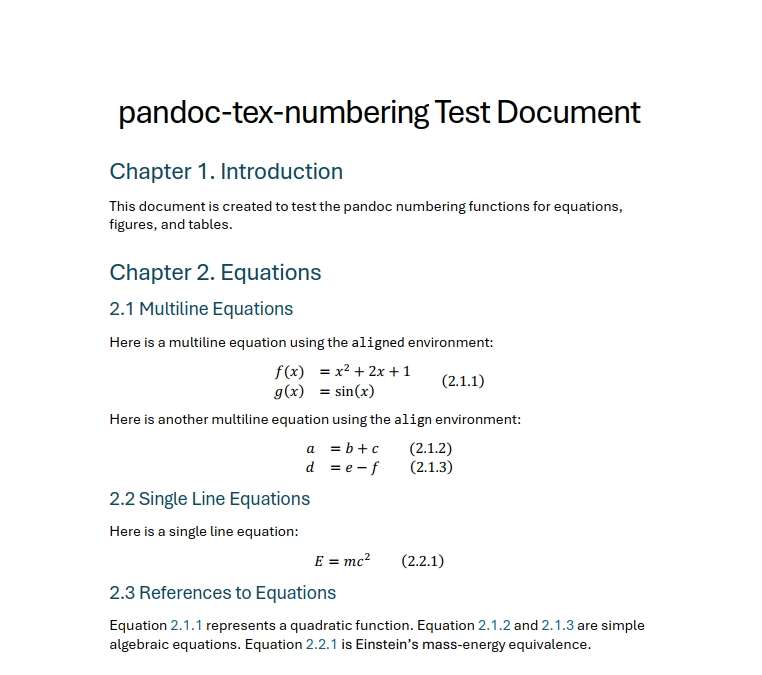
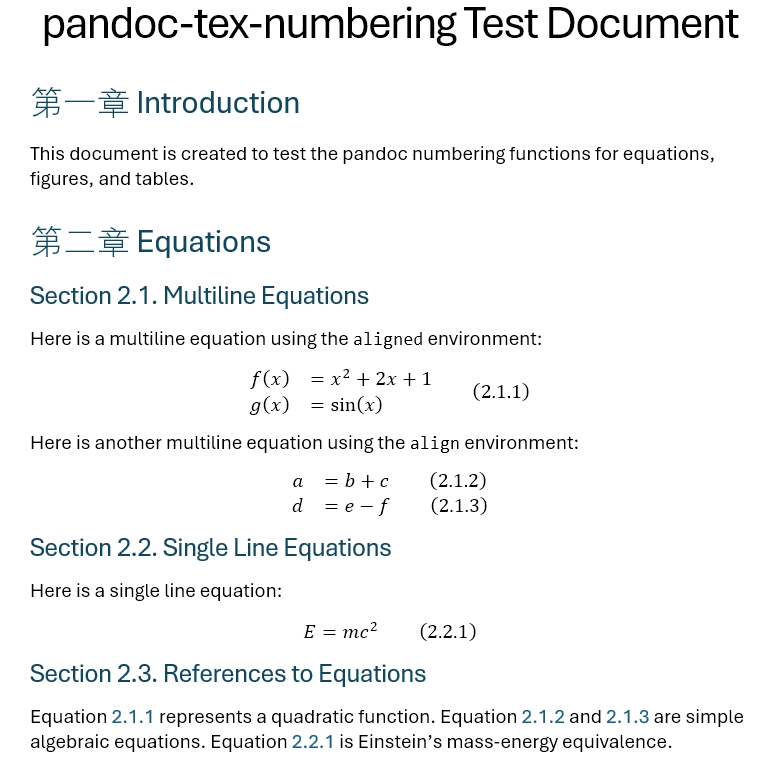
Add non-arabic numbering function

diff --git a/pandoc-tex-numbering.py b/pandoc-tex-numbering.py
@@ -13,31 +13,52 @@ logger.setLevel(logging.INFO)
 
 MAX_LEVEL = 10
 
+def number_fields(numbers,max_levels,non_arabic_numbers=False):
+    if non_arabic_numbers:
+        from lang_num import language_functions
+    fields = {}
+    for i in range(1,max_levels+1):
+        fields[f"h{i}"] = str(numbers[i-1])
+        if non_arabic_numbers:
+            for language,func in language_functions.items():
+                fields[f"h{i}_{language}"] = func(numbers[i-1])
+    return fields
+
 def prepare(doc):
     # These are global variables that will be used in the action functions, and will be destroyed after the finalization
     doc.pandoc_tex_numbering = {
+        # settings
         "num_fig": doc.get_metadata("number-figures", True),
         "num_tab": doc.get_metadata("number-tables", True),
         "num_eq": doc.get_metadata("number-equations", True),
         "num_sec": doc.get_metadata("number-sections", True),
+        "num_reset_level": int(doc.get_metadata("number-reset-level", 1)),
+
         "fig_pref": doc.get_metadata("figure-prefix", "Figure"),
         "tab_pref": doc.get_metadata("table-prefix", "Table"),
-        "num_reset_level": int(doc.get_metadata("number-reset-level", 1)),
+        "multiline_envs": doc.get_metadata("multiline-environments", "cases,align,aligned,gather,multline,flalign").split(","),
+        "non_arabic_numbers": doc.get_metadata("non-arabic-numbers", False),
+
+        # state variables
         "ref_dict": {},
         "current_sec": [0]*MAX_LEVEL,
         "current_eq": 0,
         "current_fig": 0,
         "current_tab": 0,
-        "multiline_envs": ["cases","align","aligned","gather","multline","flalign"],
         "paras2wrap": []
     }
+
+    # Initialize the section numbering formats
     section_formats = {}
     for i in range(1,MAX_LEVEL+1):
         default_format = ".".join([f"{{h{j}}}" for j in range(1,i+1)])
         current_format = doc.get_metadata(f"section-format-{i}", default_format)
-        section_formats[i] = lambda numbers,f=current_format: f.format(**{f"h{j}":str(numbers[j-1]) for j in range(1,i+1)})
+        section_formats[i] = lambda numbers,f=current_format: f.format(
+            **number_fields(numbers,i,doc.pandoc_tex_numbering["non_arabic_numbers"])
+        )
     doc.pandoc_tex_numbering["sec_num_formats"] = section_formats
     
+    # Prepare the multiline environment filter pattern for fast checking
     doc.pandoc_tex_numbering["multiline_filter_pattern"] = re.compile(
         r"\\begin\{("+"|".join(doc.pandoc_tex_numbering["multiline_envs"])+")}"
     )

diff --git a/lang_num.py b/lang_num.py
@@ -1,0 +1,24 @@
+# Here, we define the functions to convert arabic numbers to different languages
+def arabic2chinese(num):
+    chinese_numerals = "零一二三四五六七八九"
+    units = ["", "十", "百", "千", "万", "十", "百", "千", "亿"]
+    result = ""
+    num_str = str(num)
+    length = len(num_str)
+    
+    for i in range(length):
+        digit = int(num_str[i])
+        if digit != 0:
+            result += chinese_numerals[digit] + units[length - i - 1]
+        else:
+            if not result.endswith("零"):
+                result += "零"
+    if result!="零":
+        result = result.rstrip("零")
+    if result.startswith("一十"):
+        result = result[1:]
+    return result
+
+language_functions = {
+    "zh": arabic2chinese
+}

diff --git a/README.md b/README.md
@@ -37,36 +37,26 @@ You can set the following variables in the metadata of your LaTeX file to custom
 - `number-sections`: Whether to number the sections. Default is `True`.
 - `number-reset-level`: The level of the section that will reset the numbering. Default is 1. For example, if the value is 2, the numbering will be reset at every second-level section and shown as "1.1.1", "3.2.1" etc.
 
+### Equations
+- `multiline-environments`: Possible multiline environment names separated by commas. Default is "cases,align,aligned,gather,multline,flalign". The equations under these environments will be numbered line by line.
+
+### Sections
+- `section-format-1`,`section-format-2`,...: The format of the section numbering at each level. For more details, see the [Details of Sections](#sections) section. Default is "{h1}", "{h1}.{h2}" etc.
+- `non-arabic_numbers`: Whether to use non-arabic numbers for the section numbering. Default is `False`. If set to `True`, all non arabic section fields are also supported. For more details, see the [Details of Sections](#sections) section. **In that case, the `lang_num.py` file must also be included in the same directory as the filter.**
+- 
 ### Figures
 - `figure-prefix`: The prefix of the caption of figures. Default is "Figure".
 
 ### Tables
 - `table-prefix`: The prefix of the caption of tables. Default is "Table".
 
-### Sections
-- `section-format-1`,`section-format-2`,...: The format of the section numbering at each level.
-
-You can use python f-string format to customize the numbering format. The numbers of each level headers are available as fields `h1`,...,`h10`. The default values of `section-format-3` is `{h1}.{h2}.{h3}`, for example.
-
-You can do this trick:
-
-```command
-pandoc --filter pandoc-tex-numbering.py -M section-format-1="Chapter {h1}." -M section-format-2="Section {h1}.{h2}." input.tex -o output.docx
-```
-
-With these metadata (i.e. `section-format-1` set to "Chapter {h1}." and `section-format-2` set to "Section {h1}.{h2}."), the first-level section will be numbered as "Chapter 1.", "Chapter 2." etc., and the second-level section will be numbered as "Section 1.1.", "Section 1.2." etc. (By default, the first-level section is numbered as "1", "2" etc., and the second-level section is numbered as "1.1", "1.2" etc.)
-
 # Details
-
-## Figures and Tables
-
-All the figures and tables are supported. All references to figures and tables are replaced by their numbers, and all the captions are added prefixs such as "Figure 1.1: ".
-
-You can determine the prefix of figures and tables by changing the variables `figure-prefix` and `table-prefix` in the metadata, default values are "Figure" and "Table" respectively.
 
 ## Equations
 
-Equations under multiline environments such as `align`, `cases` etc. are numbered line by line, and the others are numbered as a whole block.
+If metadata `number-equations` is set to `True`, all the equations will be numbered. The numbers are added at the end of the equations and the references to the equations are replaced by their numbers.
+
+Equations under multiline environments (specified by metadata `multiline-environments` ) such as `align`, `cases` etc. are numbered line by line, and the others are numbered as a whole block.
 
 That is to say, if you want the filter to number multiline equations line by line, use `align`, `cases` etc. environments directly. If you want the filter to number the whole block as a whole, use `split`, `aligned` etc. environments in the `equation` environment.
 
@@ -95,6 +85,28 @@ This equation will be numbered line by line, say, (1.2) and (1.3)
 
 **NOTE: the pandoc filters have no access to the difference of `align` and `align*` environments.** Therefore, you CANNOT turn off the numbering of a specific `align` environment via the `*` mark. *This may be fixed by a custom lua reader to keep those information in the future.*
 
+## Sections
+
+If metadata `number-sections` is set to `True`, all the sections will be numbered. The numbers are added at the beginning of the section titles and the references to the sections are replaced by their numbers.
+
+You can customize the format of the section numbering added at the beginning of the section titles by setting the metadata `section-format-1`, `section-format-2`, etc. All of these metadata accept a python f-string format with fields `h1`, `h2`, ..., `h10` representing the numbers of each level headers. For example, set `section-format-1` to `Chapter {h1}.` and `section-format-2` to `Section {h1}.{h2}.` to number the first-level section as "Chapter 1.", "Chapter 2." etc., and the second-level section as "Section 1.1.", "Section 1.2." etc. The default values of `section-format-1`, `section-format-2`, etc. are in fact `{h1}`, `{h1}.{h2}`, etc. respectively.
+
+Sometimes, non arabic numberings are needed. For example, in Chinese, with `section-format-1="第{h1}章"`, the users get "第1章", "第2章" etc. However, sometimes the users may need "第一章", "第二章" etc. To achieve this, we also support non arabic numbers by series of non-arabic fields. For example, when `{h1}` is 12, the Chinese number field `{h1_zh}` will be "十二". To enable this feature, you need to:
+
+- set `non-arabic-numbers` to `True` in the metadata.
+- include the `lang_num.py` file in the same directory as the filter.
+- set `section-format-1="第{h1_zh}章"` in the metadata.
+
+Note that:
+- The non-arbic number support is by default turned off. You need to explicitly turn it on.
+- The current version only supports simplified Chinese numbers. If you need other languages, you can modify the `lang_num.py` file. See the [Custom Non-Arabic Numbers Support](#custom-non-arabic-numbers-support) section for more details.
+
+## Figures and Tables
+
+All the figures and tables are supported. All references to figures and tables are replaced by their numbers, and all the captions are added prefixs such as "Figure 1.1: ".
+
+You can determine the prefix of figures and tables by changing the variables `figure-prefix` and `table-prefix` in the metadata, default values are "Figure" and "Table" respectively.
+
 ## Log
 
 Some warning message will be shown in the log file named `pandoc-tex-numbering.log` in the same directory as the output file. You can check this file if you encounter any problems or report those messages in the issues.
@@ -119,7 +131,7 @@ The results are shown as follows:
 In the following example, we only want to set the prefix of figures and tables as "Fig" and "Tab" respectively and reset all the numbering at the second-level section. We also want to set the format of the first-level section as "Chapter 1.", "Chapter 2." etc.
 
 ```bash
-pandoc -o output.docx -F pandoc-tex-numbering.py -M figure-prefix="Fig" -M table-prefix="Tab" -M number-reset-level=2 -M section-format-1="Chapter {h1}." test.tex
+pandoc -o output.docx -F pandoc-tex-numbering.py -M figure-prefix="Fig" -M table-prefix="Tab" -M number-reset-level=2 -M non-arabic-numbers=true -M section-format-1="第{h1_zh}章" -M section-format-2="Section {h1}.{h2}." test.tex
 ```
 
 Note: It is recommended to set metadata in a separate `.yaml` file rather than in the command line. The command line is only for demonstration.
@@ -130,11 +142,14 @@ The results are shown as follows:
 
 # Development
 
-If you want to modify the filter, you can modify the `pandoc-tex-numbering.py` directly. The filter is written in Python and based on `panflute`.
+## Custom Non-Arabic Numbers Support
 
-## Modify Configuration
+Currently, the filter supports only Chinese non-arabic numbers. If you want to support other languages, you can modify the `lang_num.py` file. For example, if you want to support the non-arabic numbers in the language `foo`, you can:
 
-Some configurations have not coded as metadata yet, but you can easily edit them in the python code. For example, you can add new environment names to `doc.pandoc_tex_numbering:"multiline_envs"` to support more multiline environments.
+1. Define a new function `arabic2foo(num:int)->str` that converts the arabic number to the corresponding non-arabic number.
+2. Add the function to the `language_functions` dictionary with the corresponding language name as the key, for example `{"foo":arabic2foo}`.
+
+Then you can set the metadata `section-format-1="Chapter {h1_foo}."` to enable the non-arabic numbers in the filter.
 
 ## Extend the Filter
 
